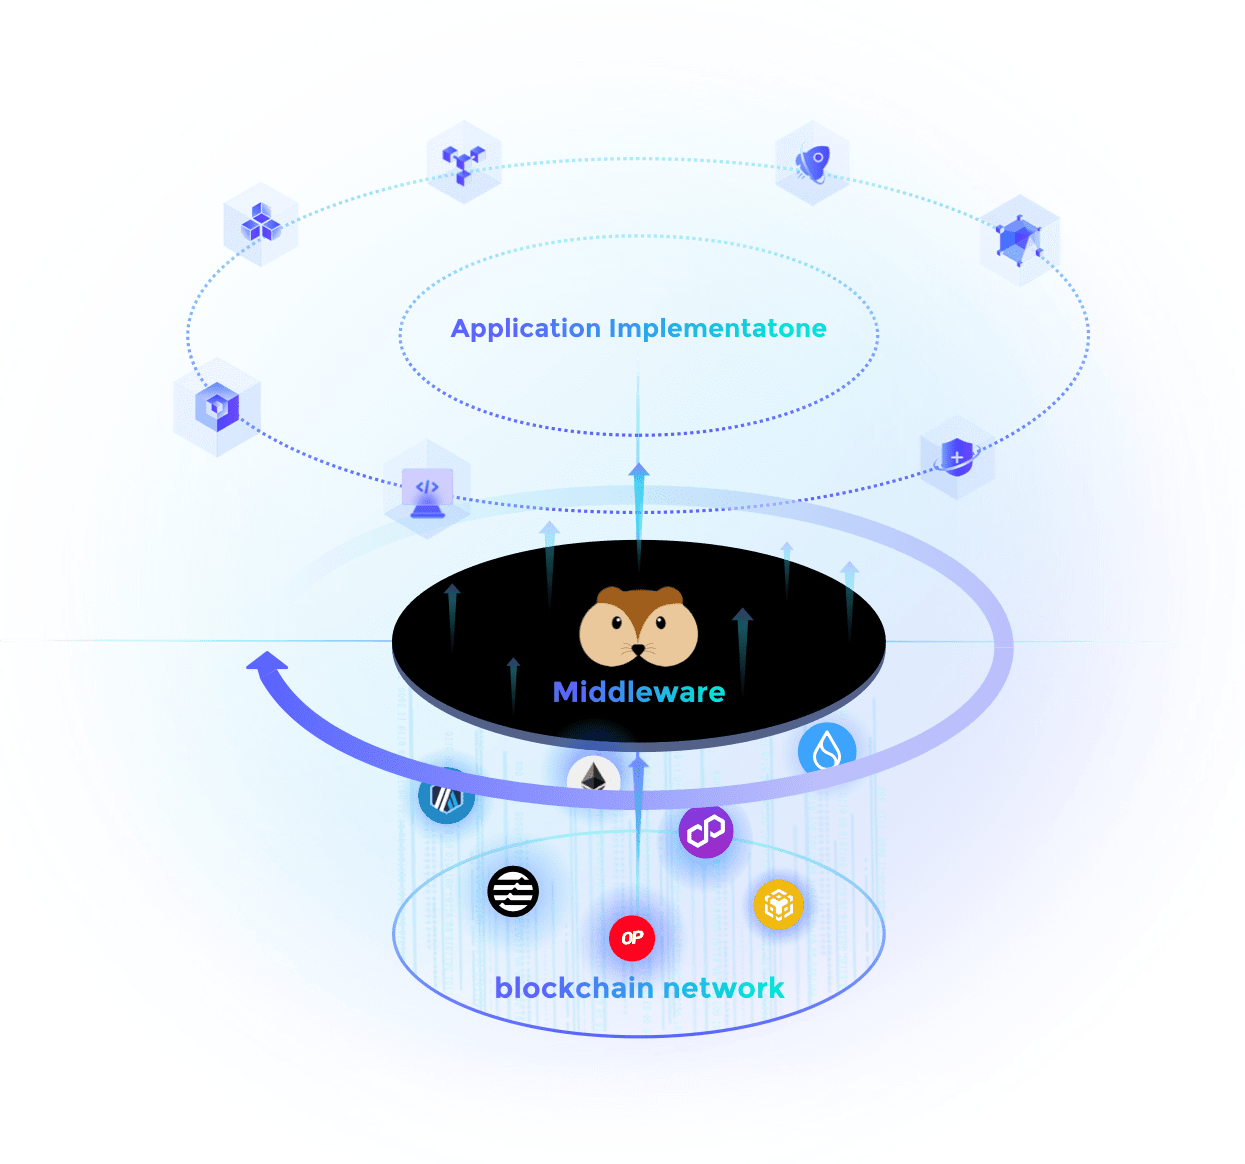
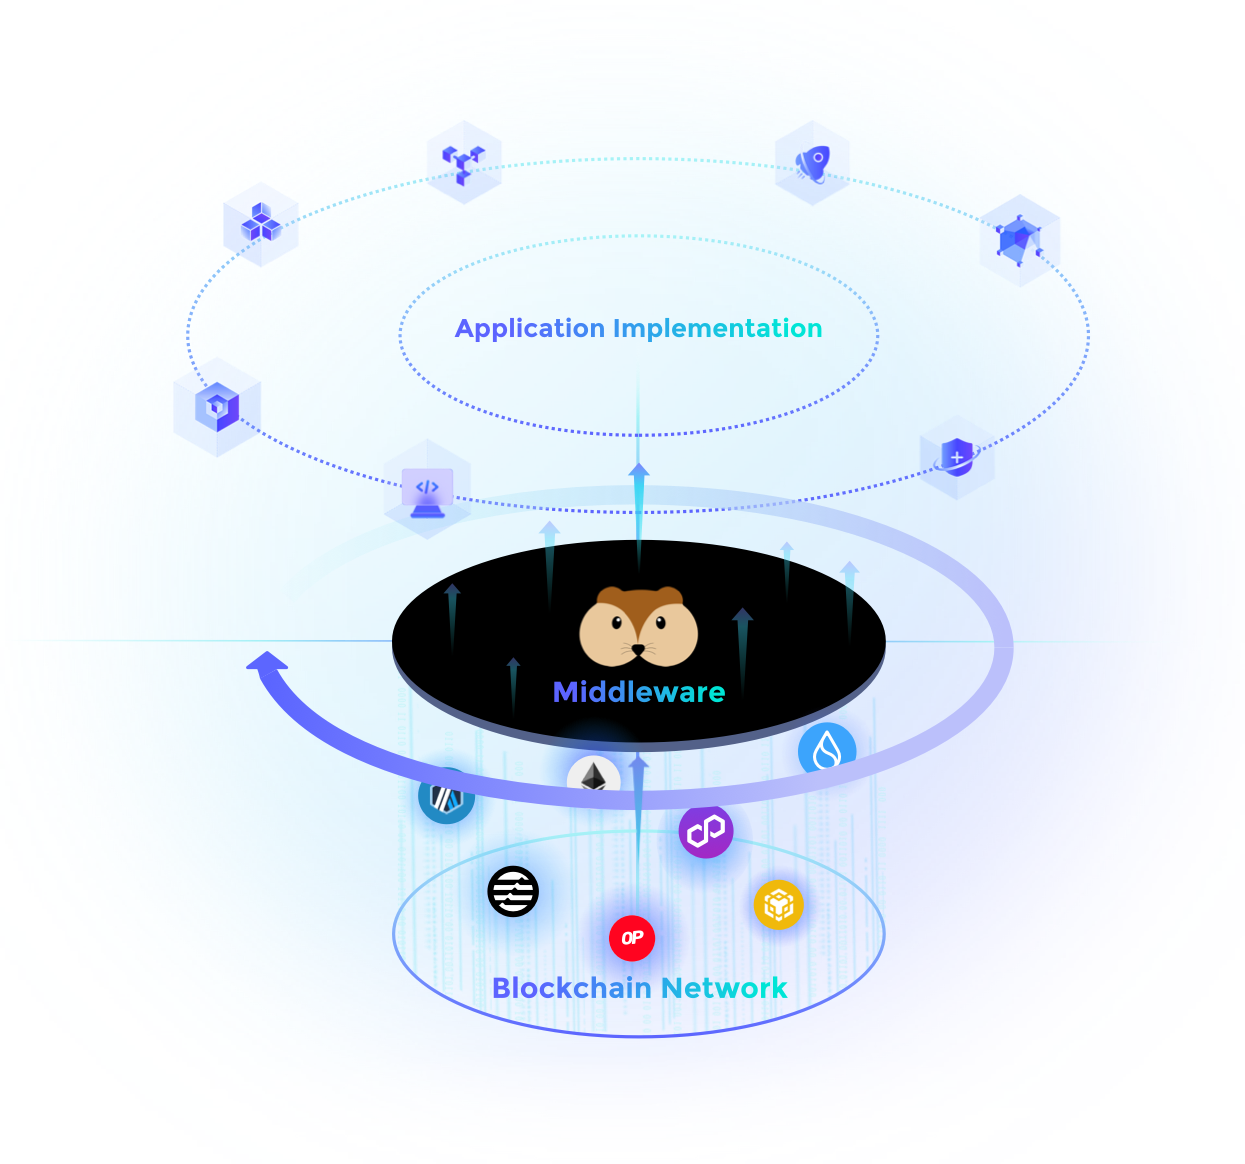
change text and img

Changed region(s): [[0.3663, 0.2784, 0.6715, 0.3093], [0.3968, 0.8351, 0.641, 0.866], [0.6104, 0.7732, 0.641, 0.8041]]

diff --git a/pages/middleware/index.vue b/pages/middleware/index.vue
@@ -22,7 +22,7 @@
   </div>
   <div class="container mx-auto px-5 text-center">
     <div class="flex justify-center">
-      <div class="area-title md:w-[800px]">Miwaspace: Find the middleware you need most</div>
+      <div class="area-title md:!text-[40px] md:w-[800px]">Miwaspace: Find the middleware you need most</div>
     </div>
   </div>
   <div :class="{'ware-space-bg-phone': !$device.isMobile}">
@@ -39,11 +39,13 @@
     </div>
   </div>
   <div class="container mx-auto px-5 text-center">
-    <div class="area-title">Middleware combined with project construction, efficient and convenient</div>
+    <div class="area-title md:!text-[40px]">Middleware combined with project construction, efficient and convenient</div>
     <div v-if="!$device.isMobile" class="flex justify-center">
       <div class="area-desc md:w-[780px]">{{ subDesc.miwabuid }}</div>
     </div>
-    <video src="~/assets/video/middleware-build.mp4" autoplay muted loop class="w-full my-[40px] md:my-[60px]"></video>
+    <div class="flex justify-center">
+      <video src="~/assets/video/middleware-build.mp4" autoplay muted loop class="w-[90%] my-[40px] md:my-[60px]"></video>
+    </div>
     <div v-if="$device.isMobile" class="flex justify-center">
       <div class="area-desc !mt-0 mb-[20px]">{{ subDesc.miwabuid }}</div>
     </div>
@@ -54,12 +56,14 @@
   </div>
   <div class="container mx-auto px-5 text-center">
     <div class="flex justify-center">
-      <div class="area-title md:w-[980px]">Middleware usage strategy to help you explore more possibilities in web3</div>
+      <div class="area-title md:!text-[40px] md:w-[980px]">Middleware usage strategy to help you explore more possibilities in web3</div>
     </div>
     <div v-if="!$device.isMobile" class="flex justify-center">
       <div class="area-desc md:w-[780px]">{{ subDesc.miwausage }}</div>
     </div>
-    <img src="~/assets/images/middleware-usage.png" class="w-full" />
+    <div class="flex justify-center">
+      <img src="~/assets/images/middleware-usage.png" class="w-[90%]" />
+    </div>
     <div v-if="$device.isMobile" class="flex justify-center">
       <div class="area-desc">{{ subDesc.miwausage }}</div>
     </div>
@@ -67,7 +71,7 @@
   <div class="container mx-auto px-5 text-center mb-[70px] md:mb-[180px]">
     <div class="flex justify-center">
       <div>
-        <div class="area-title">Join our middleware open platform</div>
+        <div class="area-title md:!text-[40px]">Join our middleware open platform</div>
         <div v-if="!$device.isMobile" class="area-desc">{{ subDesc.miwajoin }}</div>
       </div>
     </div>
@@ -132,7 +136,8 @@ onMounted(()=>{
 <style lang="less" scoped>
 .ware-top-bg{
   background: url("~/assets/images/middleware-top-bg.png") no-repeat 80% #FFFFFF;
-  background-size: contain;
+  // background-size: contain;
+  background-size: auto 90%;
 }
 .ware-top-bg-phone{
   background: url("~/assets/images/middleware-top-bg-phone.png") no-repeat center 76% #FFFFFF;

diff --git a/pages/middleware/submit.vue b/pages/middleware/submit.vue
@@ -239,6 +239,7 @@ const handleSubmit = async () => {
   border: 1px solid #EBEBEB;
   width: 100%;
   outline: none;
+  font-weight: 260;
 }
 :deep(input),:deep(select),.select-div{
   height: 37px;
